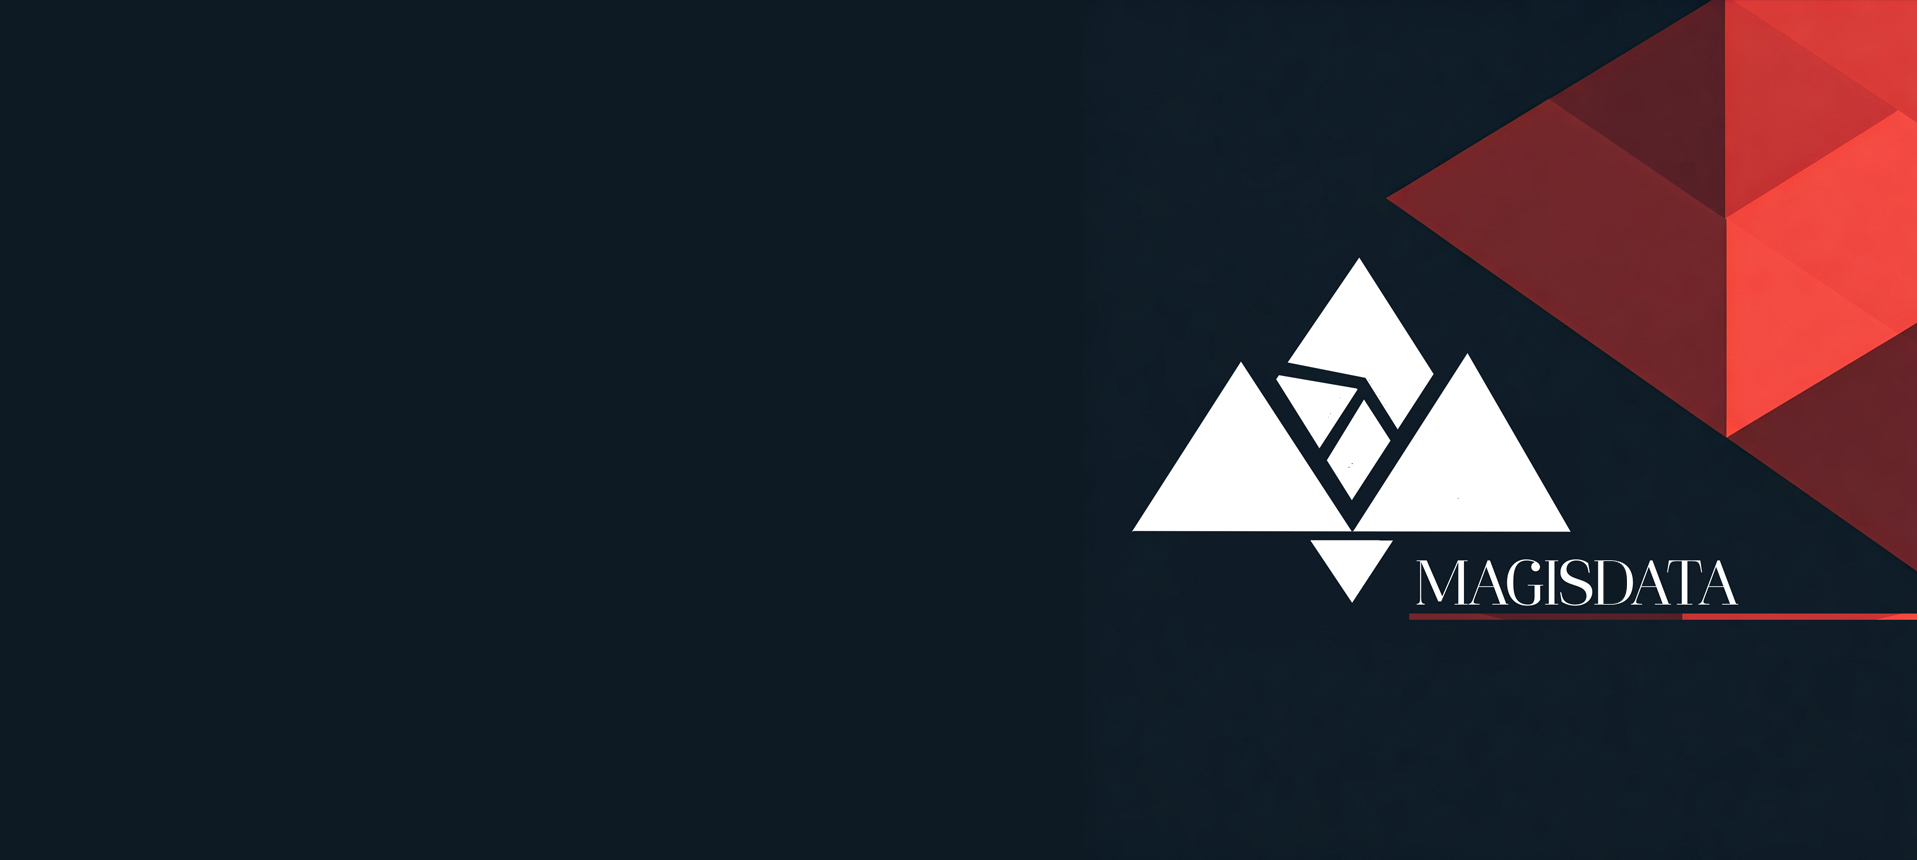
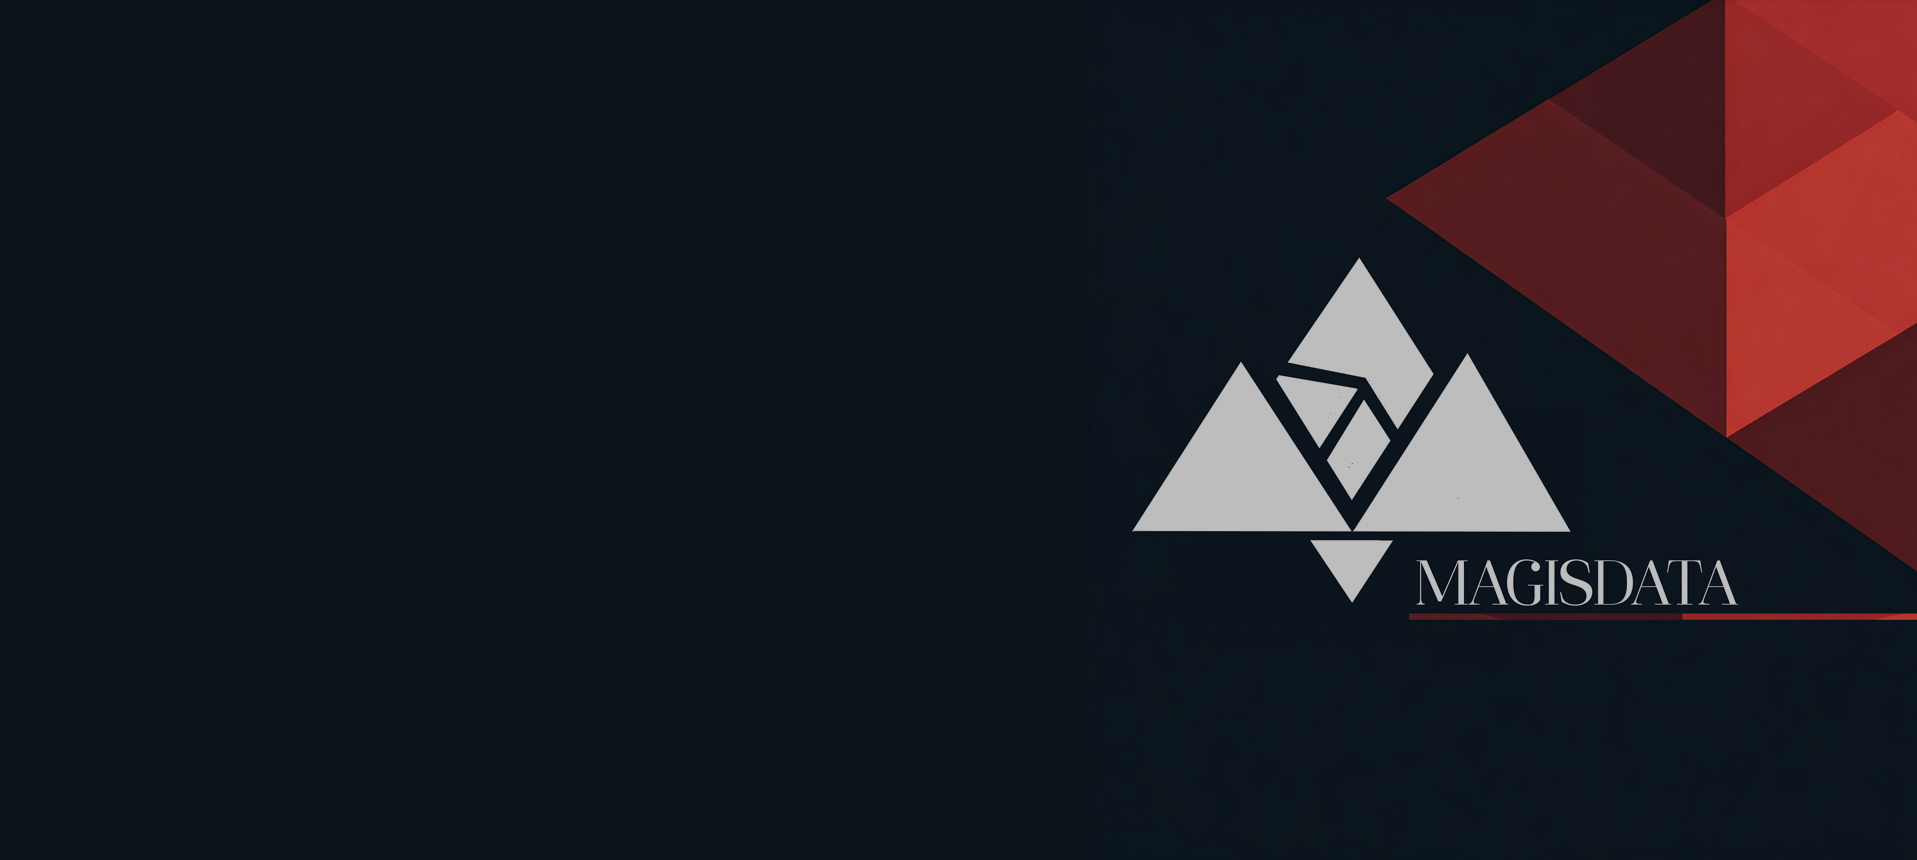
layout: fix..

Changed region(s): [[0.7079, 0.0, 1.0, 0.6651], [0.5848, 0.3023, 1.0, 0.7256], [0.831, 0.0605, 0.8618, 0.0907]]

diff --git a/frontend/src/app/testeElemento.tsx b/frontend/src/app/testeElemento.tsx
@@ -1,6 +1,8 @@
+"use client";
 import Image from "next/image";
 import React from "react";
-import bannerHeader_base from "../../public/images/bannerHeader_base.png";
+import { motion } from "framer-motion";
+import bannerHeader_base3 from "../../public/images/bannerHeader_base3.png";
 import standardPoors from "../../public/partners/Standard&Poors.svg.png";
 import tttt from "../../public/partners/Tullett-Prebon-logo.webp";
 import moody from "../../public/partners/logo-moody-s-corporation-moody-s-analytics-company-moody-s-investors-service-png-favpng-LibZCL6KAVzGtN1xz6c4sm4va.jpg";
@@ -8,140 +10,69 @@ import transparent from "../../public/partners/png-transparent-s-p-global.png";
 import logo2 from "../../public/partners/logo@2x.png";
 
 export default function TesteElemento() {
+  const images = [
+    standardPoors,
+    tttt,
+    moody,
+    transparent,
+    logo2,
+    standardPoors,
+    tttt,
+    moody,
+    transparent,
+    logo2,
+  ];
+
   return (
-    <div className="relative w-full h-full">
+    <div className="relative w-full h-full ">
       <Image
-        alt="image standard&Poors"
-        className="absolute -top-36"
-        src={bannerHeader_base}
+        alt="image bannerHeader_base"
+        className="absolute bottom-full z-50"
+        src={bannerHeader_base3}
       />
-      <div className="w-full h-fit bg-accent flex flex-wrap justify-center gap-6 p-5">
-        <Image
-          alt="image standard&Poors"
-          width={500}
-          height={500}
-          className="w-28"
-          src={standardPoors}
-        />
-        <Image
-          alt="image standard&Poors2"
-          width={500}
-          height={500}
-          className="w-28"
-          src={tttt}
-        />
-        <Image
-          alt="image standard&Poors"
-          width={500}
-          height={500}
-          className="w-28"
-          src={moody}
-        />
-        <Image
-          alt="image standard&Poors"
-          width={500}
-          height={500}
-          className="w-28"
-          src={transparent}
-        />
-        <Image
-          alt="image standard&Poors"
-          width={500}
-          height={500}
-          className="w-28"
-          src={logo2}
-        />
-        <Image
-          alt="image standard&Poors"
-          width={500}
-          height={500}
-          className="w-28"
-          src={standardPoors}
-        />
-        <Image
-          alt="image standard&Poors"
-          width={500}
-          height={500}
-          className="w-28"
-          src={standardPoors}
-        />
-        <Image
-          alt="image standard&Poors2"
-          width={500}
-          height={500}
-          className="w-28"
-          src={tttt}
-        />
-        <Image
-          alt="image standard&Poors"
-          width={500}
-          height={500}
-          className="w-28"
-          src={moody}
-        />
-        <Image
-          alt="image standard&Poors"
-          width={500}
-          height={500}
-          className="w-28"
-          src={transparent}
-        />
-        <Image
-          alt="image standard&Poors"
-          width={500}
-          height={500}
-          className="w-28"
-          src={logo2}
-        />
-        <Image
-          alt="image standard&Poors"
-          width={500}
-          height={500}
-          className="w-28"
-          src={standardPoors}
-        />
-        <Image
-          alt="image standard&Poors"
-          width={500}
-          height={500}
-          className="w-28"
-          src={standardPoors}
-        />
-        <Image
-          alt="image standard&Poors2"
-          width={500}
-          height={500}
-          className="w-28"
-          src={tttt}
-        />
-        <Image
-          alt="image standard&Poors"
-          width={500}
-          height={500}
-          className="w-28"
-          src={moody}
-        />
-        <Image
-          alt="image standard&Poors"
-          width={500}
-          height={500}
-          className="w-28"
-          src={transparent}
-        />
-        <Image
-          alt="image standard&Poors"
-          width={500}
-          height={500}
-          className="w-28"
-          src={logo2}
-        />
-        <Image
-          alt="image standard&Poors"
-          width={500}
-          height={500}
-          className="w-28"
-          src={standardPoors}
-        />
+      <div className="w-full h-fit bg-white flex items-center overflow-hidden p-5">
+        <motion.div
+          className="flex gap-6"
+          initial={{ x: 0 }}
+          animate={{ x: "-100%" }}
+          transition={{
+            duration: 10,
+            repeat: Infinity,
+            ease: "linear",
+          }}
+        >
+          {images.map((src, index) => (
+            <Image
+              key={index}
+              alt={`image ${index}`}
+              width={500}
+              height={500}
+              className="w-28 z-20"
+              src={src}
+            />
+          ))}
+        </motion.div>
+        <motion.div
+          className="flex gap-6"
+          initial={{ x: "100%" }}
+          animate={{ x: 0 }}
+          transition={{
+            duration: 10,
+            repeat: Infinity,
+            ease: "linear",
+          }}
+        >
+          {images.map((src, index) => (
+            <Image
+              key={`copy-${index}`}
+              alt={`image copy ${index}`}
+              width={500}
+              height={500}
+              className="w-28 z-20"
+              src={src}
+            />
+          ))}
+        </motion.div>
       </div>
     </div>
   );

diff --git a/frontend/src/app/bannerHeader.tsx b/frontend/src/app/bannerHeader.tsx
@@ -1,32 +1,59 @@
+import Image from "next/image";
 import React from "react";
+import favIcon from "@/app/favicon.ico";
 
 export default function BannerHeader() {
   return (
-    <div className="h-2/5  bg-fixed bg-banner-parallax-header  bg-right bg-cover bg-red">
-      <div className="text-accent  font-serif text-xl text-balance flex flex-col space-y-4 pl-2 pt-2 sm:pl-10 sm:pt-10 sm:w-4/6 ">
-        <h1>
-          Sua pesquisa no
-          <span className="text-2xl font-bold sm:text-red pl-1">MAGISDATA</span>
-          .
-          <br />
-          Oferecemos um serviço especializado de coleta e organização de dados
-          para mestrandos em áreas como finanças, contabilidade e administração.
-          Nosso sistema acessa bancos de dados acadêmicos e corporativos,
-          garantindo informações precisas e atualizadas para suas pesquisas.
-        </h1>
-        <h1>
-          Impulsione sua pesquisa com dados confiáveis. Nossa plataforma oferece
-          um vasto banco de dados para mestrandos em áreas como finanças,
-          contabilidade e administração. Coletamos e organizamos informações de
-          diversas fontes, facilitando a análise de dados e a identificação de
-          tendências de mercado.
-        </h1>
-        <h1>
-          Com nossa ferramenta, você pode filtrar e cruzar dados de forma rápida
-          e eficiente, gerando insights valiosos para seus estudos. Nossos
-          algoritmos avançados identificam padrões e correlações, auxiliando na
-          construção de modelos e na tomada de decisões.
-        </h1>
+    <div className="bg-fixed bg-banner-parallax-header  bg-right-bottom  h-[600px] w-full">
+      <div className=" font-serif flex flex-col space-y-8   sm:pt-8 sm:pl-8 md:w-max ">
+        <div className="bg-gradient-to-r from-red-500 to-yellow-400  rounded-lg shadow-lg">
+          <h1 className="text-3xl font-extrabold text-white">
+            <span className="flex text-4xl text-red">
+              <Image
+                alt="imagem icon"
+                className="p-1"
+                src={favIcon}
+                width={50}
+                height={50}
+              />
+              MAGISDATA
+            </span>
+            Dados precisos, impacto real.
+          </h1>
+          <p className="text-lg text-white mt-4">
+            A solução ideal para coleta e organização de{" "}
+            <span className="font-bold">dados acadêmicos</span> e{" "}
+            <span className="font-bold">corporativos</span>.
+          </p>
+        </div>
+
+        <div className="bg-[#BDBDBD] p-6 rounded-lg shadow-lg border text-dark border-gray-200">
+          <h2 className="text-2xl font-bold ">
+            <span className="text-red-600">Especialização</span> em mestrandos:
+          </h2>
+          <p className="text-lg  mt-2">
+            Finanças, Contabilidade, Administração e mais.
+          </p>
+          <p className="text-lg  mt-2">
+            <span className="font-bold">Acesso garantido</span> a bancos de
+            dados confiáveis para suas análises.
+          </p>
+        </div>
+
+        {/* <div className="bg-red p-6 rounded-lg shadow-lg text-dark z-20">
+          <h2 className="text-2xl font-bold ">
+            Por que escolher o <span className="text-red-500">MAGISDATA</span>?
+          </h2>
+          <ul className="mt-4 space-y-2">
+            <li className="text-lg ">
+              ✅ Dados organizados e prontos para uso.
+            </li>
+            <li className="text-lg ">
+              ✅ Insights estratégicos para suas pesquisas.
+            </li>
+            <li className="text-lg ">✅ Confiabilidade em cada informação.</li>
+          </ul>
+        </div> */}
       </div>
     </div>
   );

diff --git a/frontend/src/app/page.tsx b/frontend/src/app/page.tsx
@@ -9,16 +9,14 @@ export default function Home() {
   return (
     <>
       {/* <Header /> */}
-      <BannerHeader />
       <Main>
+        <BannerHeader />
         <TesteElemento />
-        <hr className="bg-mid-dark w-full p-0.5" />
-        <div className="flex w-full h-96 justify-start items-start bg-light">
-          TESTE
-        </div>
-        <div className="flex w-full h-full pl-5 justify-start items-start bg-mid-dark">
+        {/* <hr className="bg-light w-full p-0.5" /> */}
+        <div className="flex w-full h-[700px] justify-start items-start bg-white pb-4 pl-4">
           <TestForm />
         </div>
+        <div className="flex w-full h-full pl-5 justify-start items-start bg-white "></div>
       </Main>
       <Footer />
     </>

diff --git a/frontend/src/components/footer/index.tsx b/frontend/src/components/footer/index.tsx
@@ -9,7 +9,7 @@ const Footer = ({ ...rest }: FooterProps) => {
       {...rest}
       className="global-height-footer bg-deepIndigoBlue text-whiteSnow"
     >
-      <section className="pt-16 pb-8  bg-green-300 border-t-8 border-t-lightApricotSalmon border-b border-b-mediumBlueGray">
+      <section className="pt-16 pb-8  bg-mid-dark border-t-8 border-t-lightApricotSalmon border-b border-b-mediumBlueGray">
         <ContainerMedium id="container-top-footer">
           <h1 className="flex items-center justify-center font-extrabold text-4xl">
             FOOTER

diff --git a/frontend/src/app/form/form.tsx b/frontend/src/app/form/form.tsx
@@ -51,7 +51,7 @@ const TestForm: React.FC = () => {
   return (
     <form
       onSubmit={handleSubmit}
-      className="flex flex-col h-full space-y-4 bg-mid-dark p-4 font-serif rounded-md shadow-md"
+      className="flex flex-col h-full space-y-4 bg-mid-dark p-4 mb-3 font-serif rounded-md shadow-md"
     >
       <div className="flex flex-col space-y-2">
         <label htmlFor="nome" className="text-sm font-medium text-white">

diff --git a/frontend/src/components/common/container/ContainerMedium.tsx b/frontend/src/components/common/container/ContainerMedium.tsx
@@ -6,7 +6,7 @@ const ContainerMedium = ({ children, className, ...rest }: IContainerProps) => {
   return (
     <div
       {...rest}
-      className={`container w-full h-10 mx-auto px-2 sm:w-4/5 bg-fuchsia-600 ${className}`}
+      className={`container w-full h-10 mx-auto px-2 sm:w-4/5 ${className}`}
     >
       {children}
     </div>
